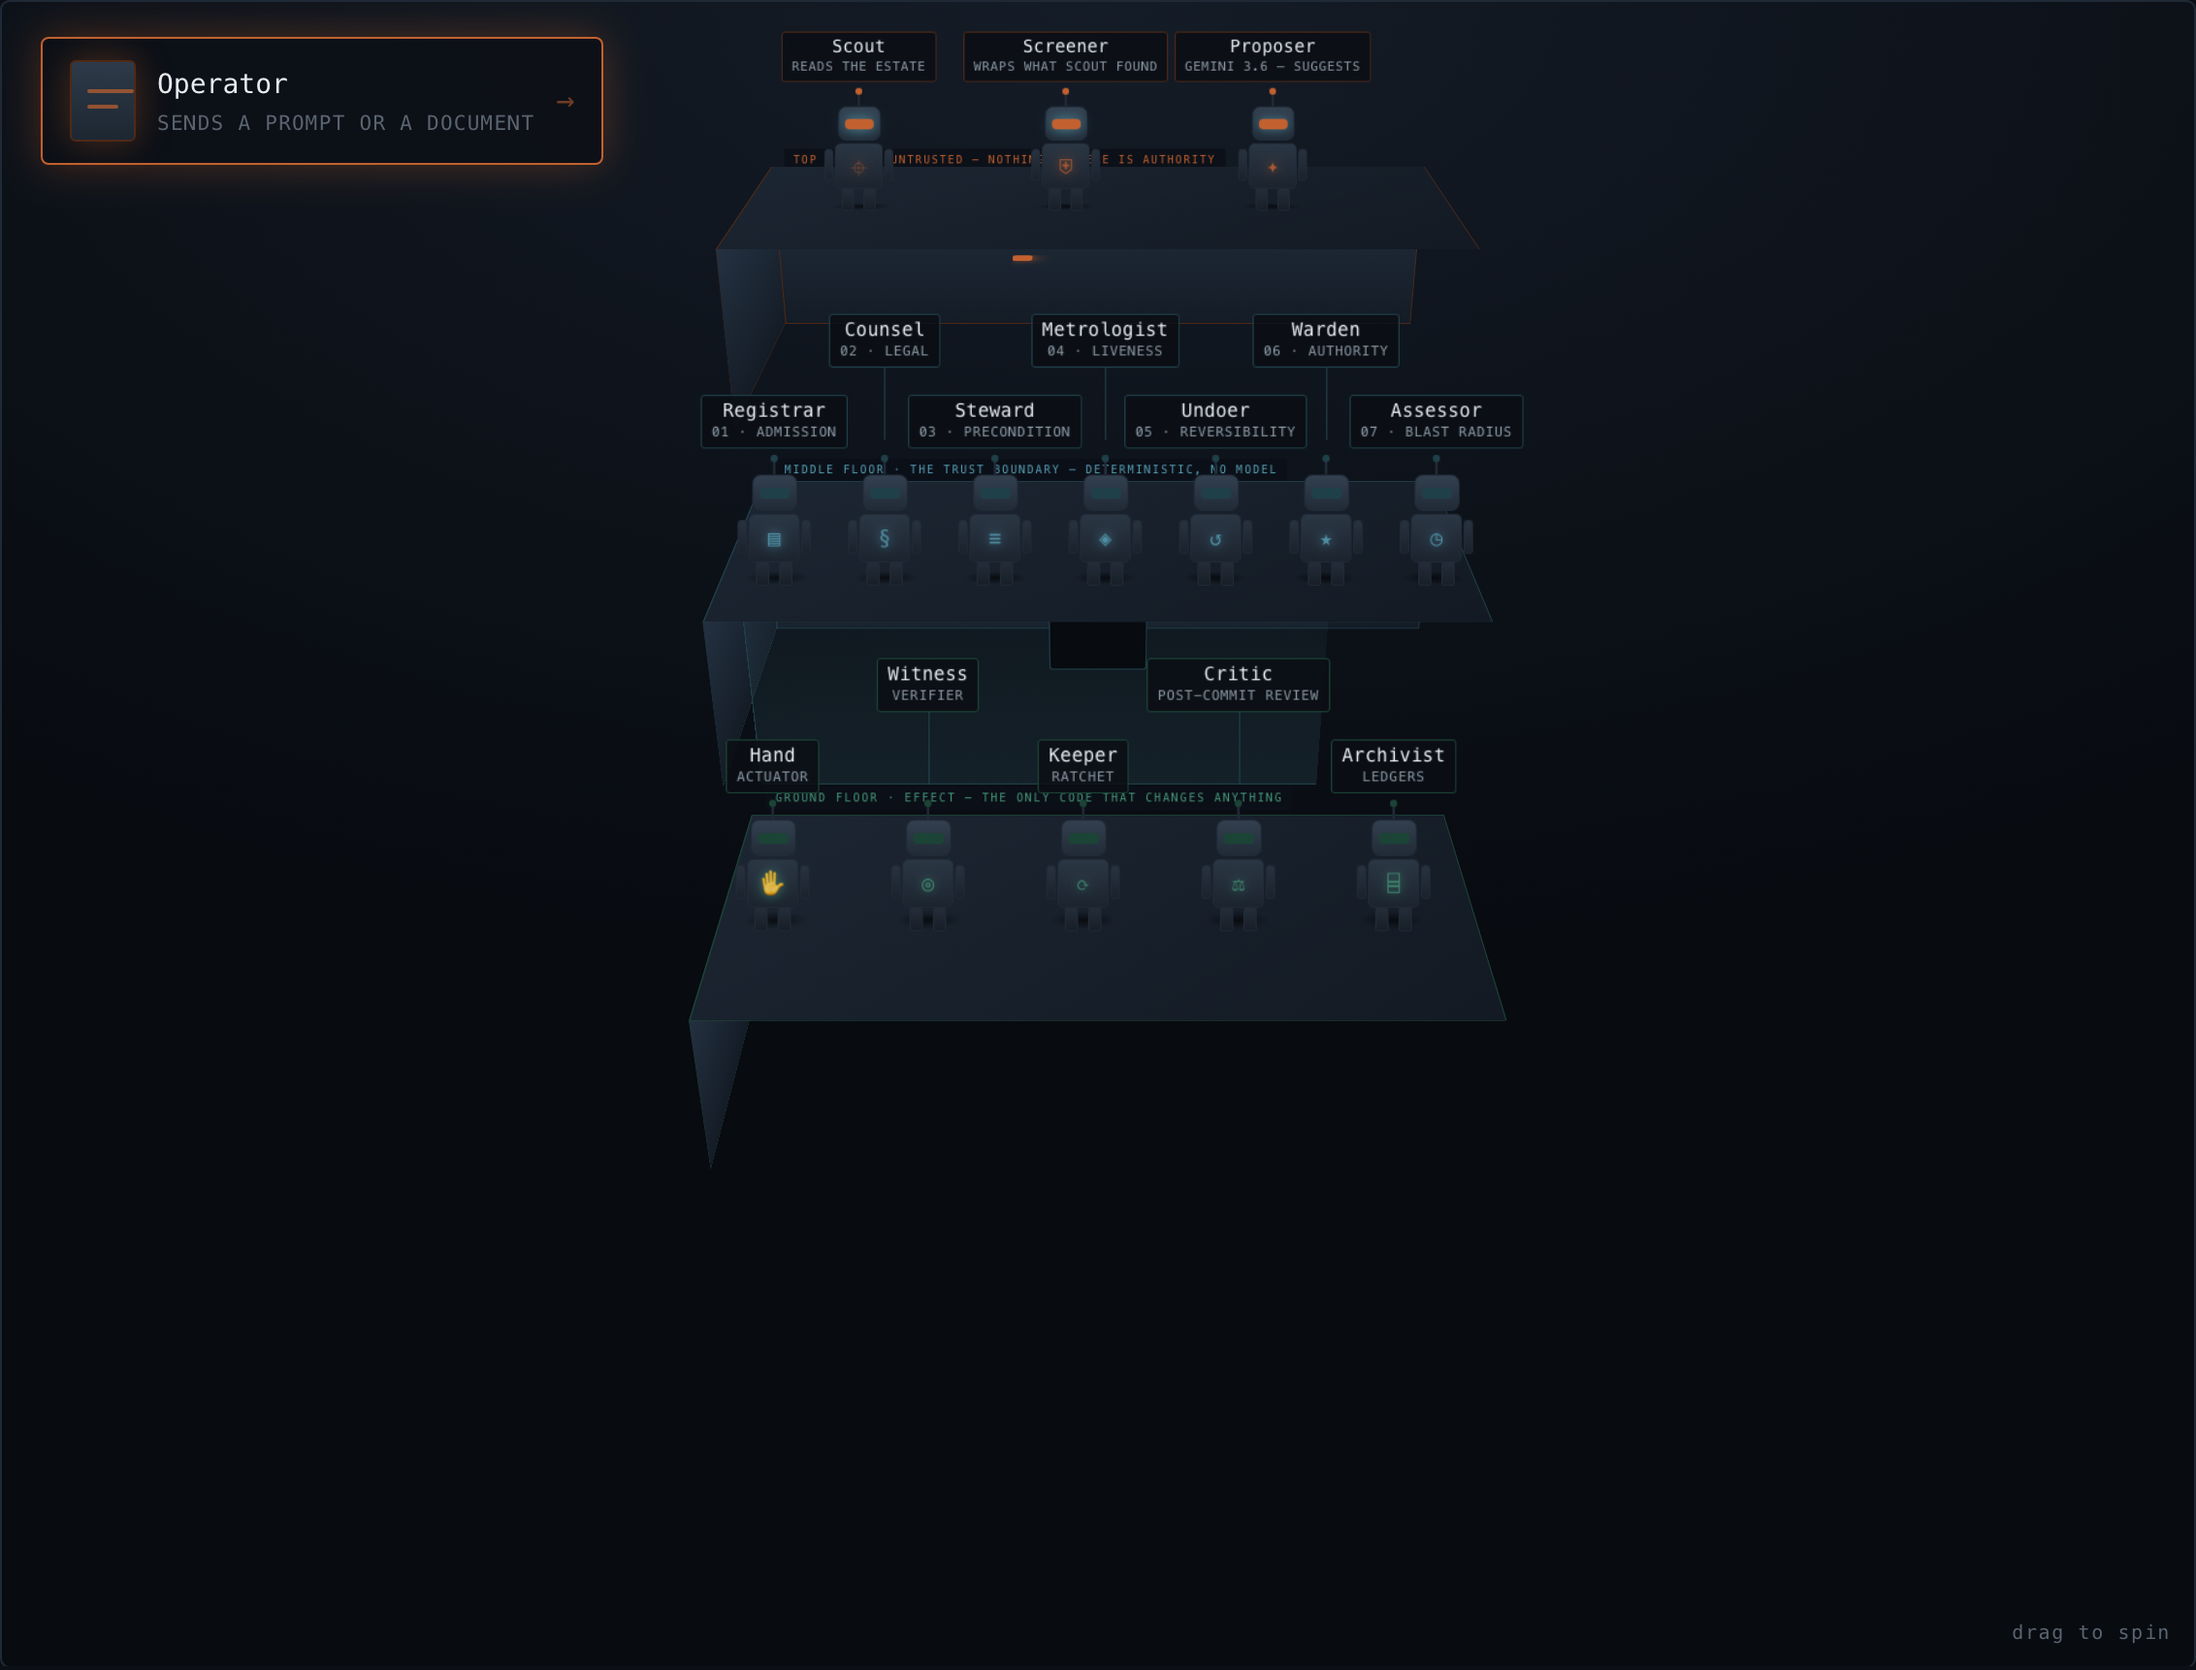
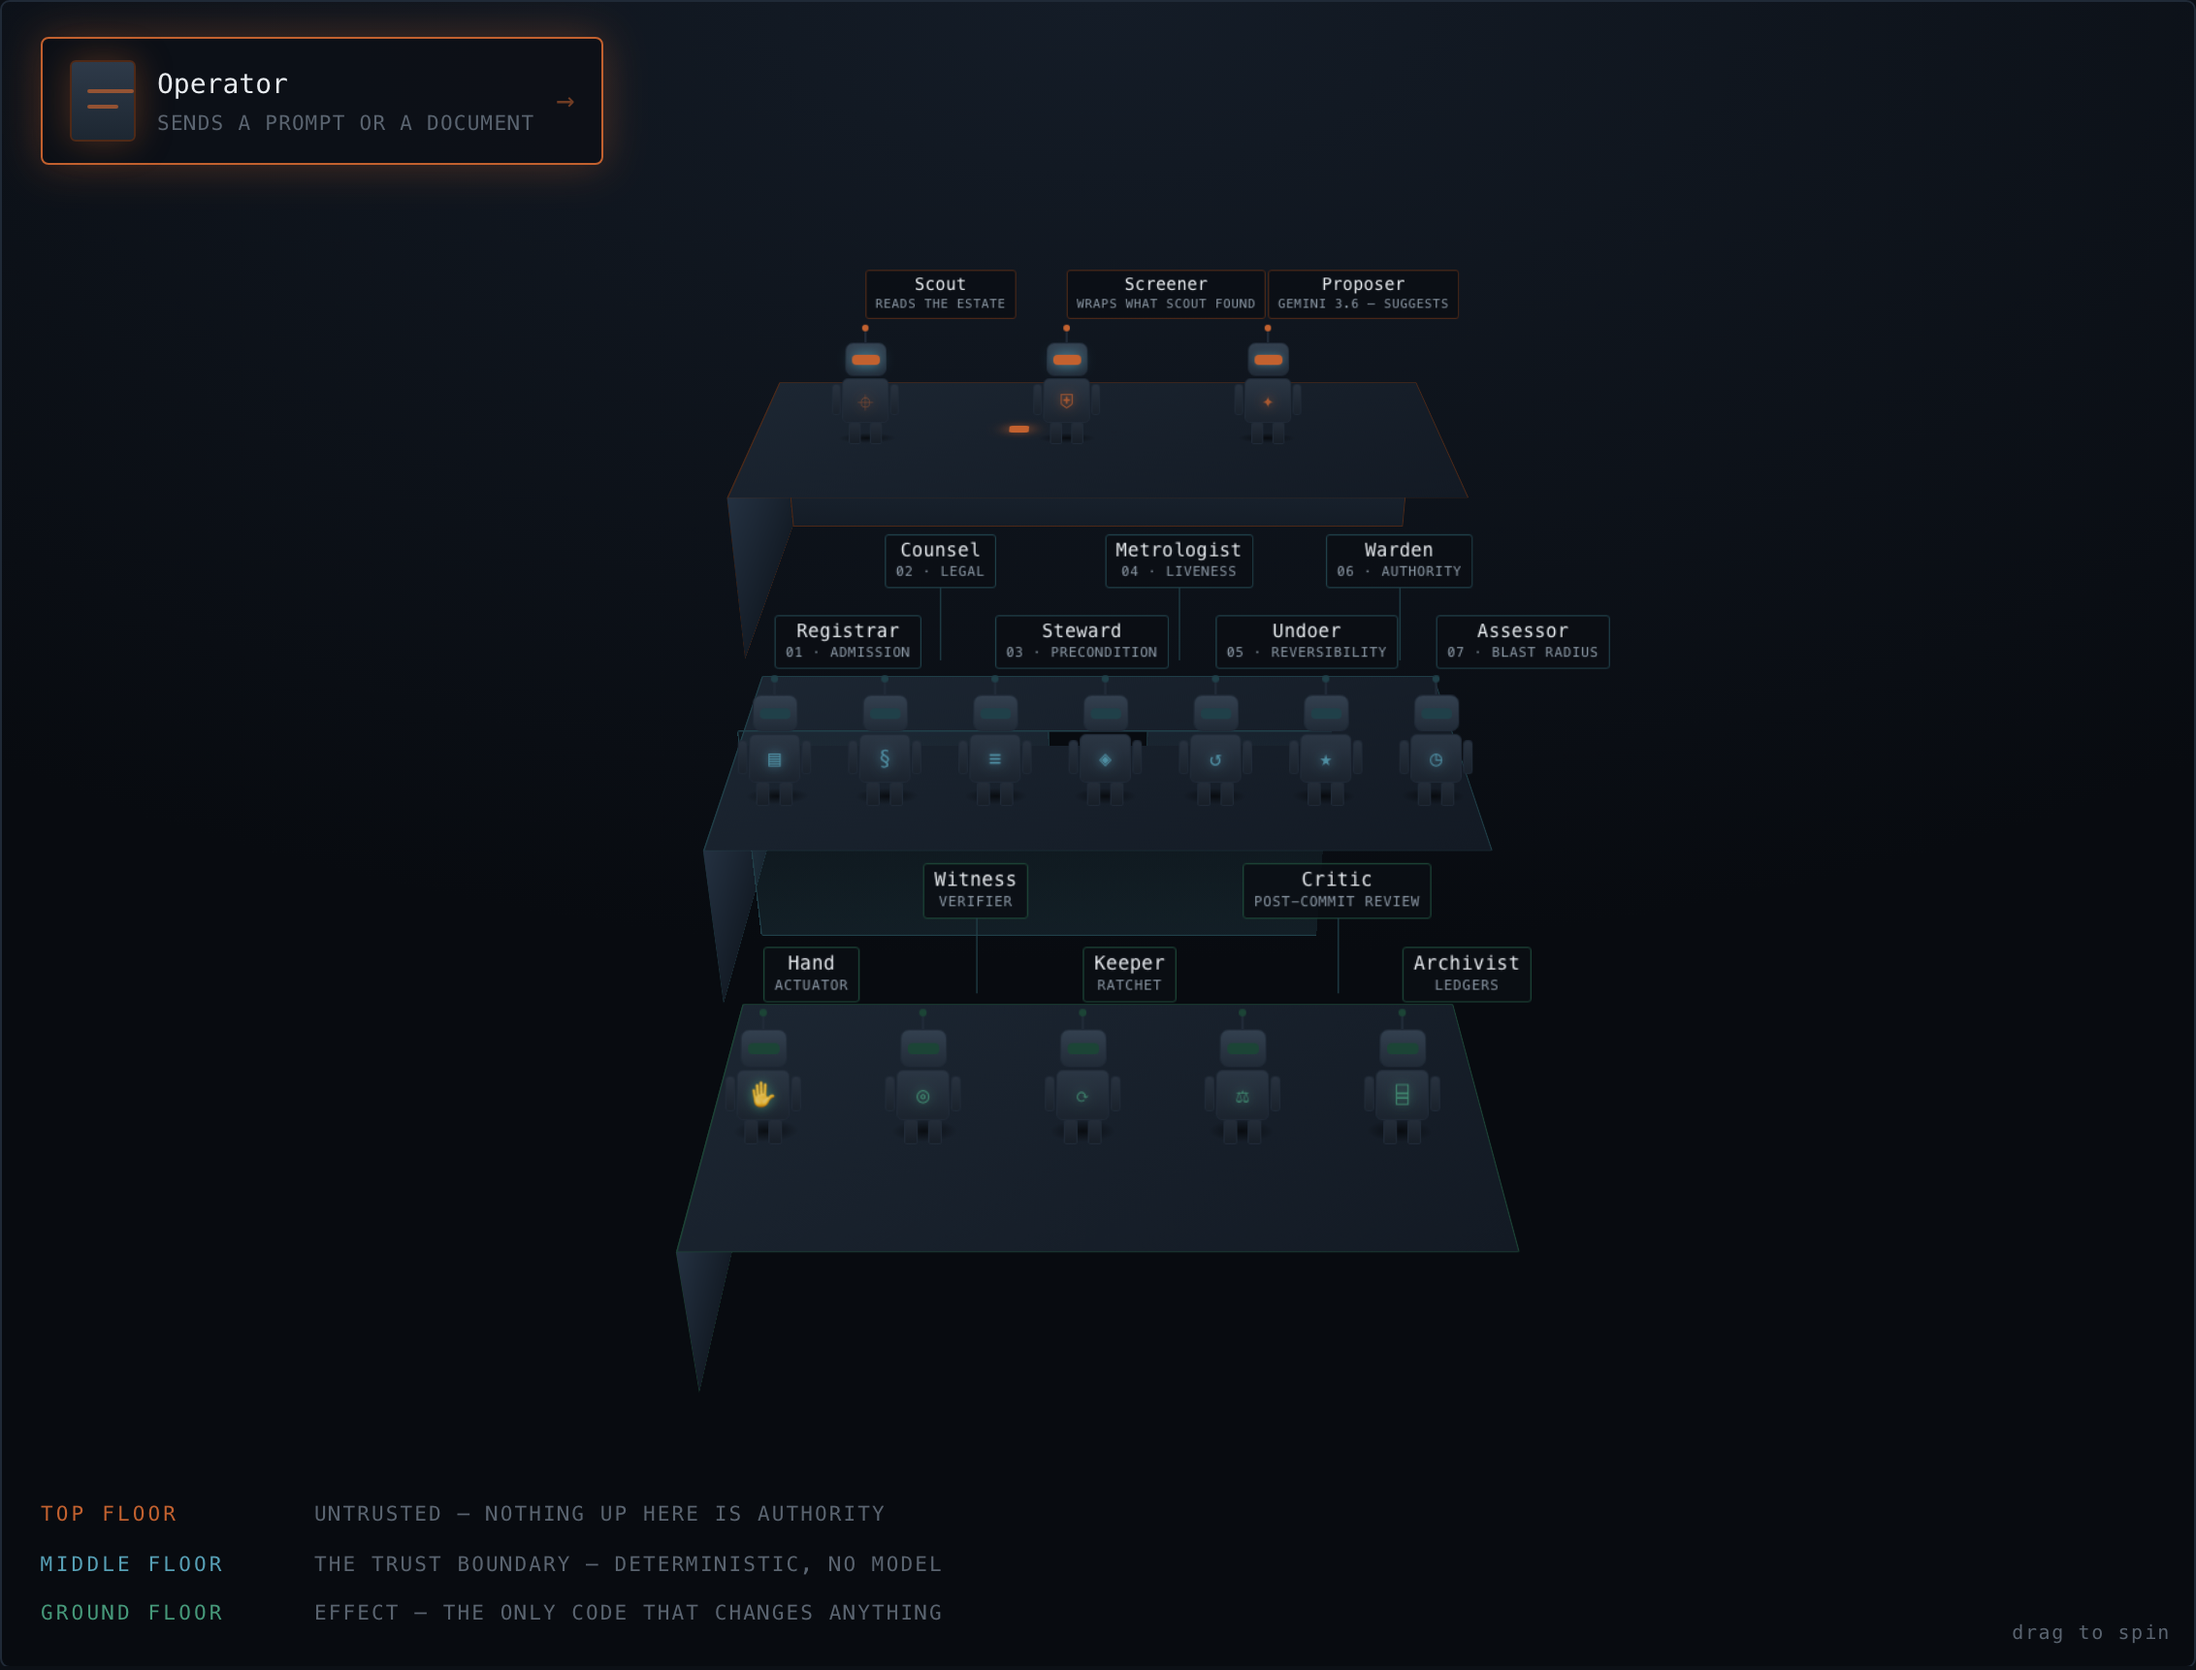
architecture: fix the floor captions in place and lower the stack
The captions lived inside the 3D scene, so agent tags drew straight through
them - the top floor read 'TOP FL...ERE IS AUTHORITY'. They are now a legend
in screen space: nothing can overlap them and they hold still while the house
spins. Verified the label/description gap is 9px on all three rows and
unchanged after a 220px drag.

diff --git a/src/app/architecture.html b/src/app/architecture.html
@@ -33,7 +33,7 @@
          background:radial-gradient(115% 80% at 50% 0%,#141C27 0%,var(--deep) 72%);
          perspective:1700px;cursor:grab;touch-action:none}
   .stage:active{cursor:grabbing}
-  .house{position:absolute;left:50%;top:47%;width:0;height:0;transform-style:preserve-3d;
+  .house{position:absolute;left:50%;top:56%;width:0;height:0;transform-style:preserve-3d;
          transform:scale(var(--s,.56)) rotateX(var(--rx,58deg)) rotateZ(var(--rz,0deg));transition:transform .1s linear}
 
   .floor{position:absolute;width:620px;height:300px;margin:-150px 0 0 -310px;transform-style:preserve-3d}
@@ -45,18 +45,23 @@
   .wallLeft{left:0;top:0;width:300px;height:150px;transform-origin:top left;
             transform:rotateX(-90deg) rotateY(90deg) translateX(-300px)}
 
-  #f3{transform:translate3d(0,-205px,470px)}
-  #f2{transform:translate3d(0,0,235px)}
-  #f1{transform:translate3d(0,205px,0)}
+  #f3{transform:translate3d(0,-215px,400px)}
+  #f2{transform:translate3d(0,20px,200px)}
+  #f1{transform:translate3d(0,255px,0)}
   #f3 .slab{border-color:var(--oxide-d)} #f2 .slab{border-color:var(--steel-d)} #f1 .slab{border-color:var(--live-d)}
   #f3 .wallBack,#f3 .wallLeft{border-color:var(--oxide-d)}
   #f2 .wallBack,#f2 .wallLeft{border-color:var(--steel-d)}
   #f1 .wallBack,#f1 .wallLeft{border-color:var(--live-d)}
 
-  .roomLabel{position:absolute;left:8px;top:-40px;z-index:998;background:rgba(11,16,23,.9);padding:3px 9px;border-radius:2px;font-family:var(--mono);font-size:10px;
-             letter-spacing:.18em;text-transform:uppercase;white-space:nowrap;
-             transform:rotateZ(0deg) rotateX(-58deg)}
-  #f3 .roomLabel{color:var(--oxide)} #f2 .roomLabel{color:var(--steel)} #f1 .roomLabel{color:var(--live)}
+  /* Fixed legend: screen-space, outside the 3D scene, so nothing can draw over it and it
+     stays put while the house spins. */
+  .legend{position:absolute;left:20px;bottom:20px;z-index:1200;display:flex;flex-direction:column;gap:9px;
+          pointer-events:none}
+  .legend div{display:flex;align-items:baseline;gap:9px;font-family:var(--mono);font-size:10.5px;
+              letter-spacing:.15em;text-transform:uppercase;white-space:nowrap}
+  .legend b{font-weight:400;width:132px;display:inline-block}
+  .legend span{color:var(--dim);letter-spacing:.1em}
+  .legend .l3{color:var(--oxide)} .legend .l2{color:var(--steel)} .legend .l1{color:var(--live)}
 
   /* ---------------- bots ---------------- */
   .bot{position:absolute;width:64px;height:112px;transform-style:preserve-3d;cursor:pointer;
@@ -82,7 +87,7 @@
               text-shadow:0 0 10px currentColor}
   #f3 .bot .badge{color:var(--oxide)} #f2 .bot .badge{color:var(--steel)} #f1 .bot .badge{color:var(--live)}
 
-  .bot .tag{white-space:nowrap;z-index:900;position:absolute;bottom:112px;left:50%;transform:translateX(-50%);text-align:center;
+  .bot .tag{white-space:nowrap;z-index:900;transform:translateZ(0.1px);backface-visibility:hidden;-webkit-font-smoothing:antialiased;position:absolute;bottom:112px;left:50%;transform:translateX(-50%);text-align:center;
             font-family:var(--mono);white-space:nowrap;background:rgba(10,14,20,.86);
             border:1px solid var(--line);border-radius:3px;padding:4px 8px}
   .bot .tag .role{display:block;font-size:15px;color:var(--ink);letter-spacing:.02em;line-height:1.15}
@@ -92,9 +97,9 @@
   .bot.raised .tag{bottom:178px}
   .bot.raised .tag::after{content:"";position:absolute;left:50%;top:100%;
      width:1px;height:60px;background:var(--steel-d)}
-  #f3 .bot .tag{white-space:nowrap;z-index:900;border-color:var(--oxide-d)}
-  #f2 .bot .tag{white-space:nowrap;z-index:900;border-color:var(--steel-d)}
-  #f1 .bot .tag{white-space:nowrap;z-index:900;border-color:var(--live-d)}
+  #f3 .bot .tag{white-space:nowrap;z-index:900;transform:translateZ(0.1px);backface-visibility:hidden;-webkit-font-smoothing:antialiased;border-color:var(--oxide-d)}
+  #f2 .bot .tag{white-space:nowrap;z-index:900;transform:translateZ(0.1px);backface-visibility:hidden;-webkit-font-smoothing:antialiased;border-color:var(--steel-d)}
+  #f1 .bot .tag{white-space:nowrap;z-index:900;transform:translateZ(0.1px);backface-visibility:hidden;-webkit-font-smoothing:antialiased;border-color:var(--live-d)}
   .bot[data-blocking="true"] .tag{border-color:var(--slate);background:rgba(24,28,34,.94)}
   .bot[data-active="true"] .tag{border-color:var(--steel)}
 
@@ -184,15 +189,12 @@
     <div class="house" id="house">
       <div class="floor" id="f3">
         <div class="slab"></div><div class="wallBack"></div><div class="wallLeft"></div>
-        <div class="roomLabel">Top floor · untrusted — nothing up here is authority</div>
       </div>
       <div class="floor" id="f2">
         <div class="slab"></div><div class="wallBack"></div><div class="wallLeft"></div>
-        <div class="roomLabel">Middle floor · the trust boundary — deterministic, no model</div>
       </div>
       <div class="floor" id="f1">
         <div class="slab"></div><div class="wallBack"></div><div class="wallLeft"></div>
-        <div class="roomLabel">Ground floor · effect — the only code that changes anything</div>
       </div>
       <div class="barrier" id="barrier"><span></span></div>
       <div class="parcel" id="parcel"></div>
@@ -201,6 +203,11 @@
       <div class="doc"></div>
       <div class="who"><span class="role">Operator</span><span class="job">sends a prompt or a document</span></div>
       <span class="arrow">→</span>
+    </div>
+    <div class="legend">
+      <div class="l3"><b>Top floor</b><span>untrusted — nothing up here is authority</span></div>
+      <div class="l2"><b>Middle floor</b><span>the trust boundary — deterministic, no model</span></div>
+      <div class="l1"><b>Ground floor</b><span>effect — the only code that changes anything</span></div>
     </div>
     <div class="hint">drag to spin</div>
   </div>
@@ -386,7 +393,8 @@ document.querySelectorAll("#controls button").forEach(b=>
 let rx=58, rz=0, drag=false, lx=0, ly=0;
 const house = document.getElementById("house"), stage = document.getElementById("stage");
 const apply=()=>{house.style.setProperty("--rx",rx+"deg");house.style.setProperty("--rz",rz+"deg");
-  document.querySelectorAll(".bot,.roomLabel").forEach(el=>el.style.transform=`rotateZ(${-rz}deg) rotateX(${-rx}deg)`);};
+  document.querySelectorAll(".bot").forEach(el=>el.style.transform=`rotateZ(${-rz}deg) rotateX(${-rx}deg)`);};
+apply();   // pin the writing upright before the first drag, not only after one
 stage.addEventListener("pointerdown",e=>{drag=true;lx=e.clientX;ly=e.clientY;stage.setPointerCapture(e.pointerId)});
 stage.addEventListener("pointermove",e=>{
   if(!drag) return;
